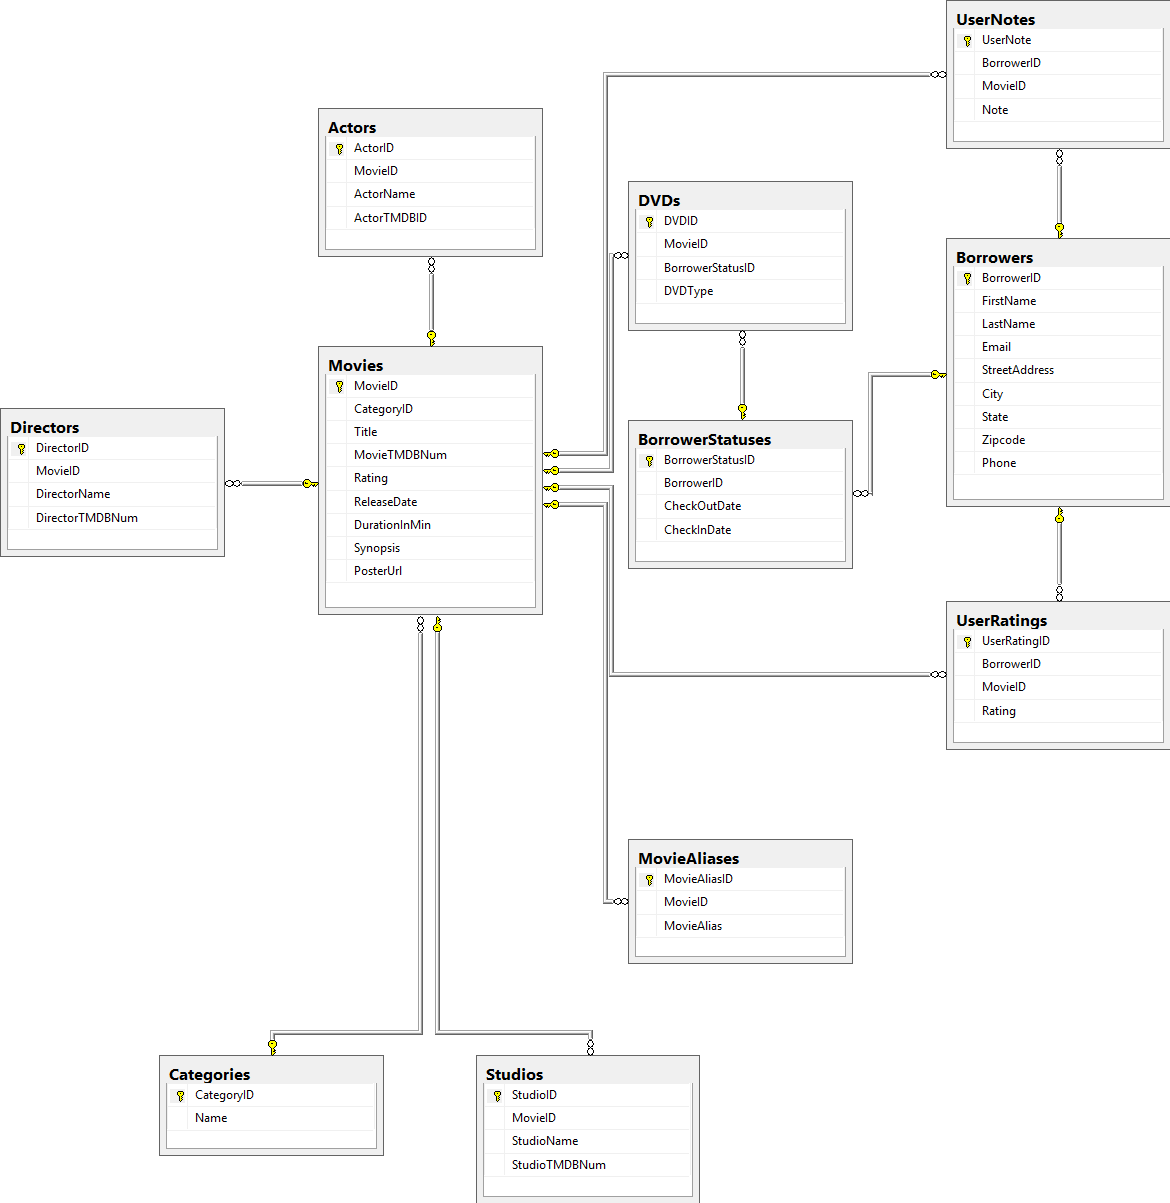
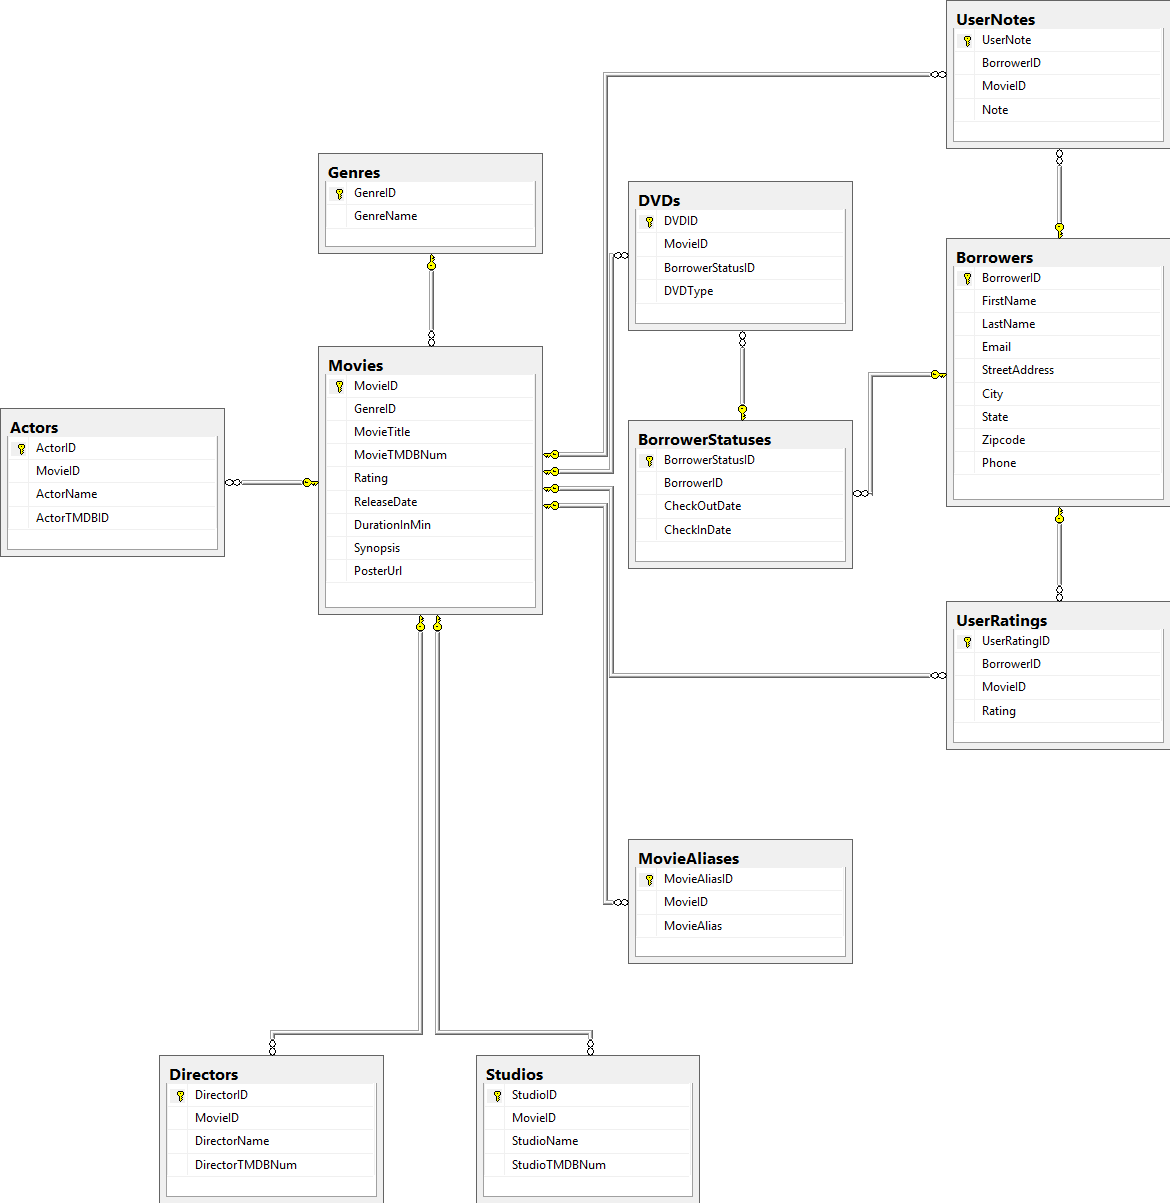
Updated models in VS to add FKs, lists, and fixed up Database a little

diff --git a/DVDLibrary.Models/Movie.cs b/DVDLibrary.Models/Movie.cs
@@ -6,15 +6,34 @@ using System.Threading.Tasks;
 
 namespace DVDLibrary.Models
 {
-   public class Movie
+    public class Movie
     {
-       public int MovieId { get; set; }
-       public string MovieName { get; set; }
-       public int? MovieTMDBNum { get; set; }
-       public string MpaaRating { get; set; }
-       public DateTime ReleaseDate { get; set; }
-       public string Synopsis { get; set; }
-       public int Duration { get; set; }
-       public string PosterUrl { get; set; }
+        public int MovieId { get; set; }
+        public string MovieTitle { get; set; }
+        public int? MovieTMDBNum { get; set; }
+        public string MpaaRating { get; set; }
+        public DateTime ReleaseDate { get; set; }
+        public string Synopsis { get; set; }
+        public int Duration { get; set; }
+        public int DirectorId { get; set; }
+        public int StudioId { get; set; }
+        public string PosterUrl { get; set; }
+
+        public List<Genre> Genres { get; set; }
+        public List<Actor> MovieActors { get; set; }
+        public List<string> MovieAliases { get; set; }
+
+        public List<UserRating> UserRatings { get; set; }
+        public List<UserNote> UserNotes { get; set; }
+
+        public Movie()
+        {
+            Genres = new List<Genre>();
+            MovieActors = new List<Actor>();
+            MovieAliases = new List<string>();
+            UserRatings = new List<UserRating>();
+            UserNotes = new List<UserNote>();
+        }
     }
+
 }

diff --git a/DVDLibrary.Data/DVDLibraryRepo.cs b/DVDLibrary.Data/DVDLibraryRepo.cs
@@ -1,0 +1,30 @@
+using System;
+using System.Collections.Generic;
+using System.Linq;
+using System.Text;
+using System.Threading.Tasks;
+using TMDbLib.Client;
+using TMDbLib.Objects.Movies;
+
+namespace DVDLibrary.Data
+{
+    public class DVDLibraryRepo
+    {
+        
+
+        //Add New DVD to SQL Database that is a new Movie
+        public void AddNewDVDToDBViaTMDB(int tmdbNum)
+        {
+            TMDbClient client = new TMDbClient("1fee8f2397ff73412985de2bb825f020");
+
+            Movie movie = client.GetMovie(11);
+
+            Models.Movie newmovie = new Models.Movie()
+            {
+                MovieTitle = movie.Title,
+                MovieTMDBNum = movie.Id,
+            };
+        }
+
+    }
+}

diff --git a/TMDBTesting/TestMovieDB/TestMovieDB/Program.cs b/TMDBTesting/TestMovieDB/TestMovieDB/Program.cs
@@ -47,7 +47,7 @@ namespace TestMovieDB
 
             Console.WriteLine("Movie Studio: {0} (ID {1})", movie.ProductionCompanies[0].Name, movie.ProductionCompanies[0].Id);
 
-            Console.WriteLine("Director: {0} (ID {1}", movie.Credits.Crew.FirstOrDefault(d => d.Job == "Director").Name, movie.Credits.Crew.FirstOrDefault(d => d.Job == "Director").Id);
+            Console.WriteLine("Director: {0} (ID {1})", movie.Credits.Crew.FirstOrDefault(d => d.Job == "Director").Name, movie.Credits.Crew.FirstOrDefault(d => d.Job == "Director").Id);
 
             Console.WriteLine("List of Genres:");
             foreach (var g in movie.Genres)

diff --git a/DVDLibrary.BLL/DVDLibaryOperations.cs b/DVDLibrary.BLL/DVDLibaryOperations.cs
@@ -14,15 +14,7 @@ namespace DVDLibrary.BLL
 
         public void Execute()
         {
-            TMDbClient client = new TMDbClient("1fee8f2397ff73412985de2bb825f020");
-
-            Movie movie = client.GetMovie(11);
-
-            Models.Movie newmovie = new Models.Movie()
-            {
-                MovieName = movie.Title,
-                MovieTMDBNum = movie.Id,
-            };
+            
 
         }
     }

diff --git a/DVDLibrary.Models/DVD.cs b/DVDLibrary.Models/DVD.cs
@@ -6,9 +6,16 @@ using System.Threading.Tasks;
 
 namespace DVDLibrary.Models
 {
-   public class DVD
+    public class DVD
     {
         public int DVDId { get; set; }
         public string DVDType { get; set; }
+        public int MovieId { get; set; }
+        public List<Status> Statuses { get; set; } 
+
+        public DVD()
+        {
+            Statuses = new List<Status>();
+        }
     }
 }

diff --git a/DVDLibrary.Models/Genre.cs b/DVDLibrary.Models/Genre.cs
@@ -1,0 +1,14 @@
+using System;
+using System.Collections.Generic;
+using System.Linq;
+using System.Text;
+using System.Threading.Tasks;
+
+namespace DVDLibrary.Models
+{
+    public class Genre
+    {
+        public int GenreId { get; set; }
+        public string GenreName { get; set; }
+    }
+}

diff --git a/DVDLibrary.Models/Status.cs b/DVDLibrary.Models/Status.cs
@@ -9,7 +9,9 @@ namespace DVDLibrary.Models
     public class Status
     {
         public int StatusId { get; set; }
+        public int BorrowerId { get; set; }
         public DateTime DateBorrowed { get; set; }
         public DateTime? DateReturned { get; set; }
+
     }
 }

diff --git a/DVDLibrary.Models/UserNote.cs b/DVDLibrary.Models/UserNote.cs
@@ -9,6 +9,9 @@ namespace DVDLibrary.Models
     public class UserNote
     {
         public int UserNoteId { get; set; }
+        public int MovieId { get; set; }
+        public int BorrowerId { get; set; }
         public string Note { get; set; }
+
     }
 }

diff --git a/DVDLibrary.Models/UserRating.cs b/DVDLibrary.Models/UserRating.cs
@@ -9,6 +9,8 @@ namespace DVDLibrary.Models
    public class UserRating
     {
         public int UserRatingId { get; set; }
+        public int MovieId { get; set; }
+        public int BorrowerId { get; set; }
         public int Rating { get; set; }
     }
 }
